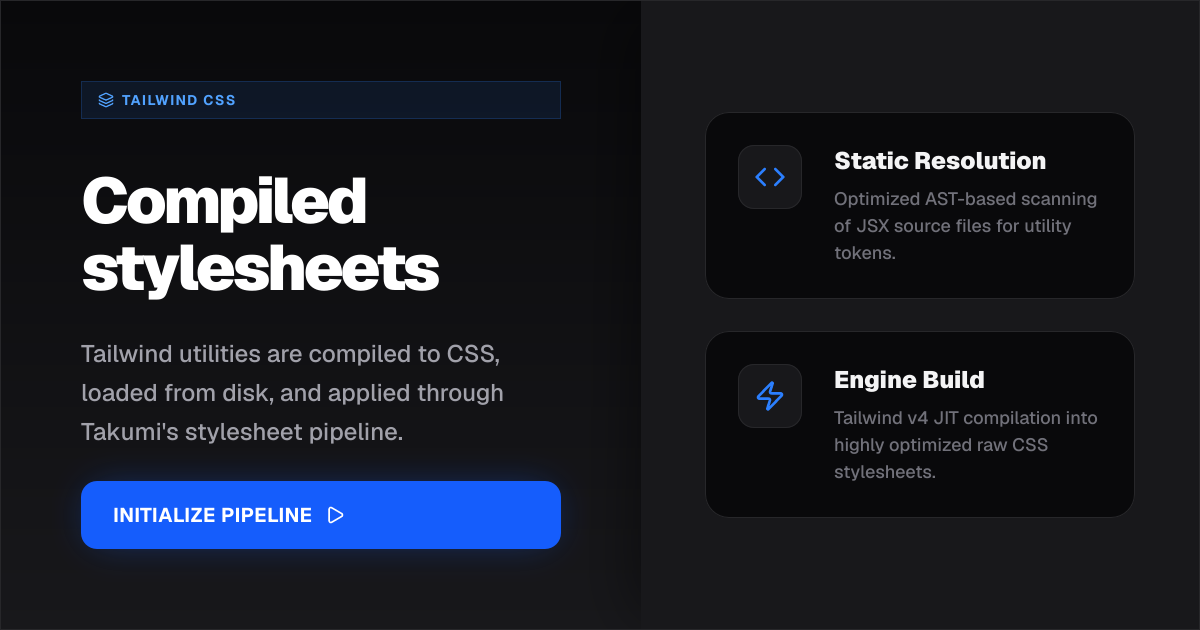
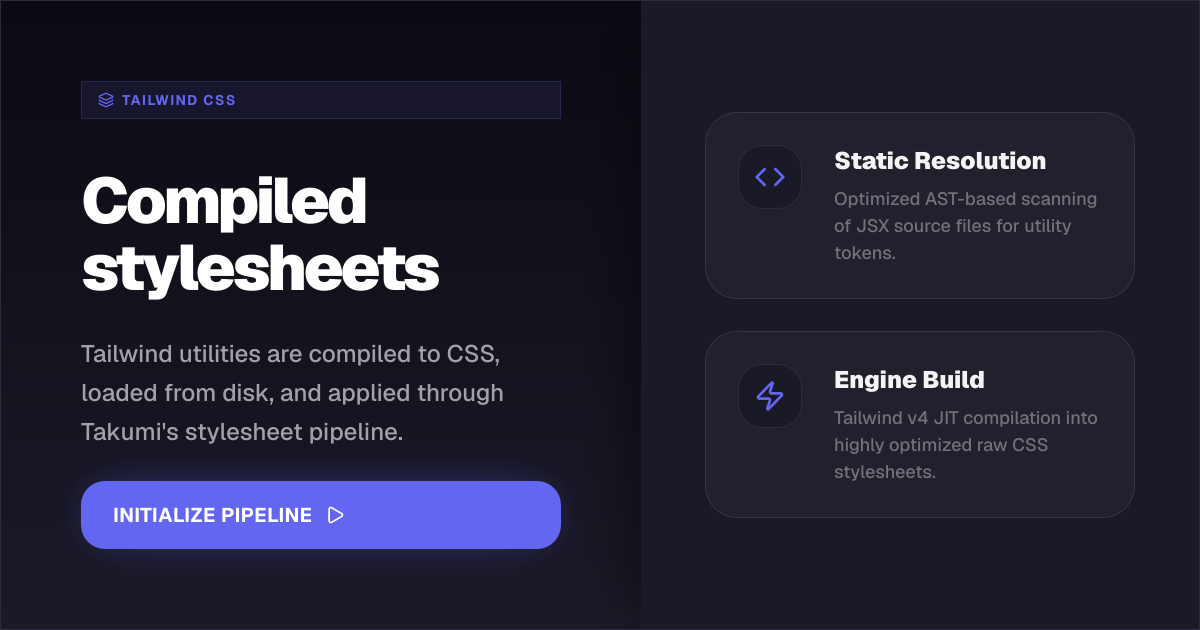
Example: customize Tailwind theme

diff --git a/example/css-library-integration/src/card.tsx b/example/css-library-integration/src/card.tsx
@@ -12,13 +12,12 @@ export function TailwindCard({
   description,
 }: CssLibraryCardProps) {
   return (
-    <div className="flex h-[630px] w-[1200px] bg-[#09090b] font-sans flex-row overflow-hidden border border-[#27272a]">
-      {/* Left Pane - Content & Typo */}
-      <div className="flex w-[640px] h-full flex-col p-20 justify-between bg-linear-to-b from-[#09090b] to-[#18181b] relative z-10">
+    <div className="flex h-[630px] w-[1200px] bg-takumi-dark font-brand flex-row overflow-hidden border border-takumi-border">
+      <div className="flex w-[640px] h-full flex-col p-20 justify-between bg-linear-to-b from-takumi-dark to-takumi-card relative z-10">
         <div className="flex flex-col">
-          <div className="flex items-center px-4 py-2 w-max shrink-0 rounded-full bg-blue-500/10 border border-blue-500/20">
-            <Layers className="w-4 h-4 shrink-0 text-blue-400 mr-2" />
-            <span className="text-sm font-bold text-blue-400 tracking-widest uppercase">
+          <div className="flex items-center px-4 py-2 w-max shrink-0 rounded-full bg-brand-primary/10 border border-brand-primary/20">
+            <Layers className="w-4 h-4 shrink-0 text-brand-primary mr-2" />
+            <span className="text-sm font-bold text-brand-primary tracking-widest uppercase">
               {libraryName}
             </span>
           </div>
@@ -31,7 +30,7 @@ export function TailwindCard({
           </p>
         </div>
 
-        <div className="flex items-center bg-blue-600 w-max shrink-0 px-8 py-5 rounded-2xl shadow-[0_0_40px_-10px_rgba(37,99,235,0.5)]">
+        <div className="flex items-center bg-brand-primary w-max shrink-0 px-8 py-5 rounded-2xl shadow-brand animate-float">
           <span className="text-xl font-bold text-white tracking-wide">
             INITIALIZE PIPELINE
           </span>
@@ -39,11 +38,10 @@ export function TailwindCard({
         </div>
       </div>
 
-      {/* Right Pane - Feature Grid */}
-      <div className="flex flex-1 h-full bg-[#18181b] flex-col p-16 justify-center border-l border-[#27272a] shadow-[-20px_0_60px_-15px_rgba(0,0,0,0.5)]">
+      <div className="flex flex-1 h-full bg-takumi-card flex-col p-16 justify-center border-l border-takumi-border shadow-[-20px_0_60px_-15px_rgba(0,0,0,0.5)]">
         <div className="flex flex-col gap-8">
-          <div className="flex bg-[#09090b] p-8 rounded-3xl border border-[#27272a] items-start hover:border-blue-500/50 transition-colors">
-            <div className="flex h-16 w-16 shrink-0 items-center justify-center rounded-2xl bg-[#18181b] border border-[#27272a] text-blue-500">
+          <div className="flex glass-card p-8 rounded-3xl items-start hover:border-brand-primary/50 transition-colors">
+            <div className="flex h-16 w-16 shrink-0 items-center justify-center rounded-2xl bg-takumi-card border border-takumi-border text-brand-primary">
               <Code className="w-8 h-8 shrink-0" />
             </div>
             <div className="flex flex-col ml-8 justify-center">
@@ -57,8 +55,8 @@ export function TailwindCard({
             </div>
           </div>
 
-          <div className="flex bg-[#09090b] p-8 rounded-3xl border border-[#27272a] items-start hover:border-blue-500/50 transition-colors">
-            <div className="flex h-16 w-16 shrink-0 items-center justify-center rounded-2xl bg-[#18181b] border border-[#27272a] text-blue-500">
+          <div className="flex glass-card p-8 rounded-3xl items-start hover:border-brand-primary/50 transition-colors">
+            <div className="flex h-16 w-16 shrink-0 items-center justify-center rounded-2xl bg-takumi-card border border-takumi-border text-brand-primary">
               <Zap className="w-8 h-8 shrink-0" />
             </div>
             <div className="flex flex-col ml-8 justify-center">
@@ -84,11 +82,9 @@ export function UnoCard({
 }: CssLibraryCardProps) {
   return (
     <div className="flex h-[630px] w-[1200px] bg-white font-sans flex-col overflow-hidden relative border border-zinc-200">
-      {/* Massive Background Gradients */}
       <div className="absolute top-0 right-0 w-[800px] h-[800px] bg-linear-to-bl from-rose-500/20 via-fuchsia-500/20 to-transparent blur-3xl rounded-full translate-x-1/3 -translate-y-1/3" />
       <div className="absolute bottom-0 left-0 w-[600px] h-[600px] bg-linear-to-tr from-cyan-400/20 to-transparent blur-3xl rounded-full -translate-x-1/4 translate-y-1/4" />
 
-      {/* Top Section */}
       <div className="flex w-full flex-row px-20 py-16 justify-between items-start relative z-10 shrink-0">
         <div className="flex flex-col max-w-[640px]">
           <div className="flex items-center px-4 py-1.5 w-max shrink-0 rounded-full bg-zinc-900 shadow-xl border border-zinc-800">
@@ -113,7 +109,6 @@ export function UnoCard({
         </div>
       </div>
 
-      {/* Bottom Section - Metric Cards */}
       <div className="flex w-full flex-row gap-8 px-20 pb-16 mt-auto relative z-10 flex-1 items-end">
         <div className="flex flex-1 bg-white/80 p-8 rounded-[40px] border border-white shadow-[0_30px_60px_-15px_rgba(0,0,0,0.05)] flex-col justify-end h-[240px]">
           <div className="flex h-16 w-16 shrink-0 bg-zinc-100 rounded-[20px] items-center justify-center mb-auto border border-zinc-200">

diff --git a/example/css-library-integration/src/input.css b/example/css-library-integration/src/input.css
@@ -1,3 +1,52 @@
-@import "tailwindcss" source(none);
+@import "tailwindcss";
 
-@source "./card.tsx";
+:root {
+  --takumi-black: #020204;
+  --takumi-dark: #0c0b14;
+  --takumi-card: #1a1926;
+  --takumi-border: #2d2b3d;
+
+  --brand-primary: #6366f1;
+  --brand-secondary: #06b6d4;
+  --brand-accent: #f472b6;
+}
+
+@theme inline {
+  --color-takumi-black: var(--takumi-black);
+  --color-takumi-dark: var(--takumi-dark);
+  --color-takumi-card: var(--takumi-card);
+  --color-takumi-border: var(--takumi-border);
+
+  --color-brand-primary: var(--brand-primary);
+  --color-brand-secondary: var(--brand-secondary);
+  --color-brand-accent: var(--brand-accent);
+
+  --font-brand: "Inter", system-ui, sans-serif;
+
+  --spacing-18: 4.5rem;
+  --spacing-22: 5.5rem;
+
+  --radius-xl: 1rem;
+  --radius-2xl: 1.5rem;
+  --radius-3xl: 2rem;
+
+  --shadow-brand: 0 0 45px -10px rgba(99, 102, 241, 0.5);
+
+  --animate-float: float 3s ease-in-out infinite;
+
+  @keyframes float {
+    0%,
+    100% {
+      transform: translateY(0);
+    }
+    50% {
+      transform: translateY(-10px);
+    }
+  }
+}
+
+@utility glass-card {
+  background-color: rgba(255, 255, 255, 0.03);
+  backdrop-filter: blur(12px);
+  border: 1px solid rgba(255, 255, 255, 0.1);
+}
